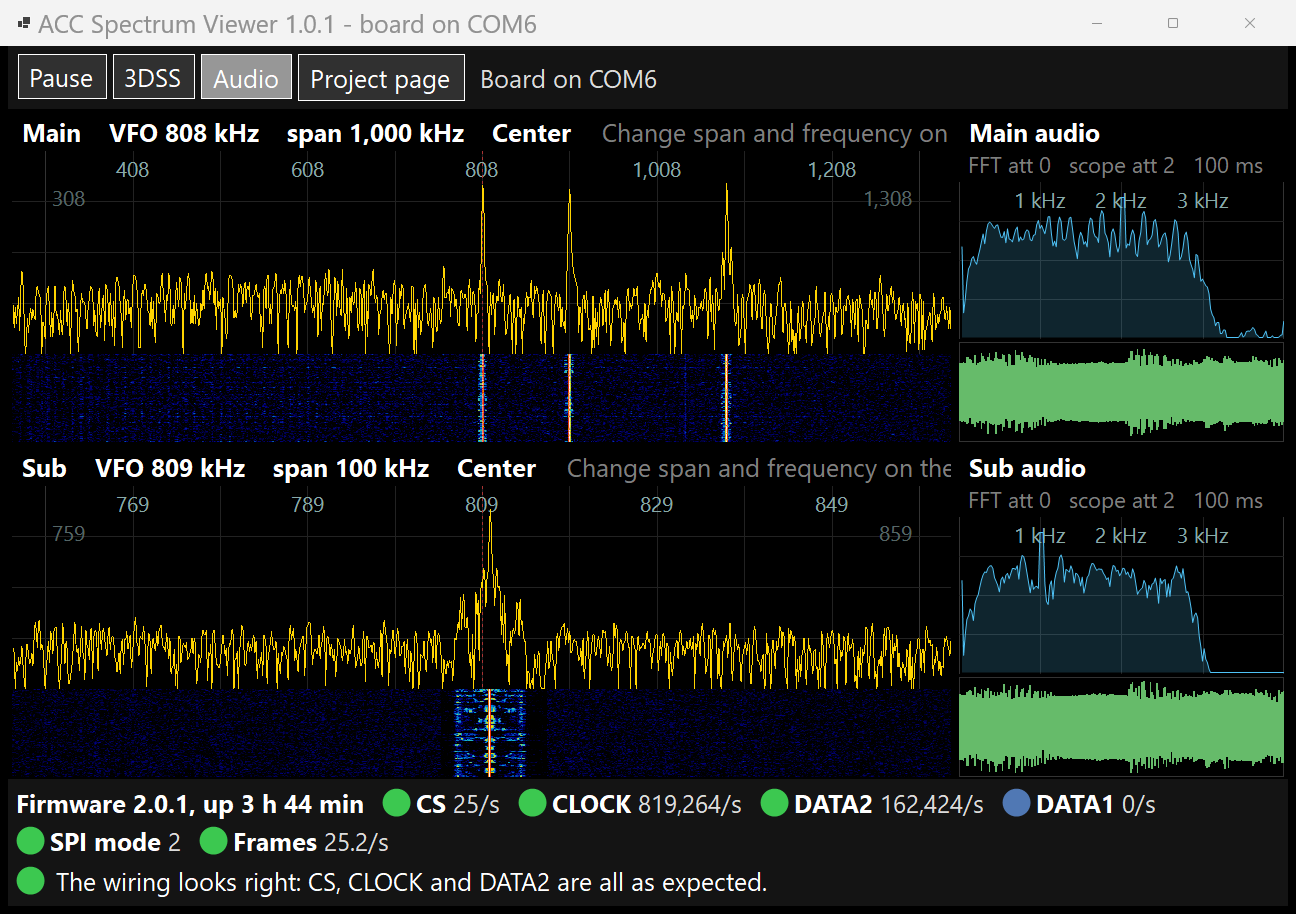
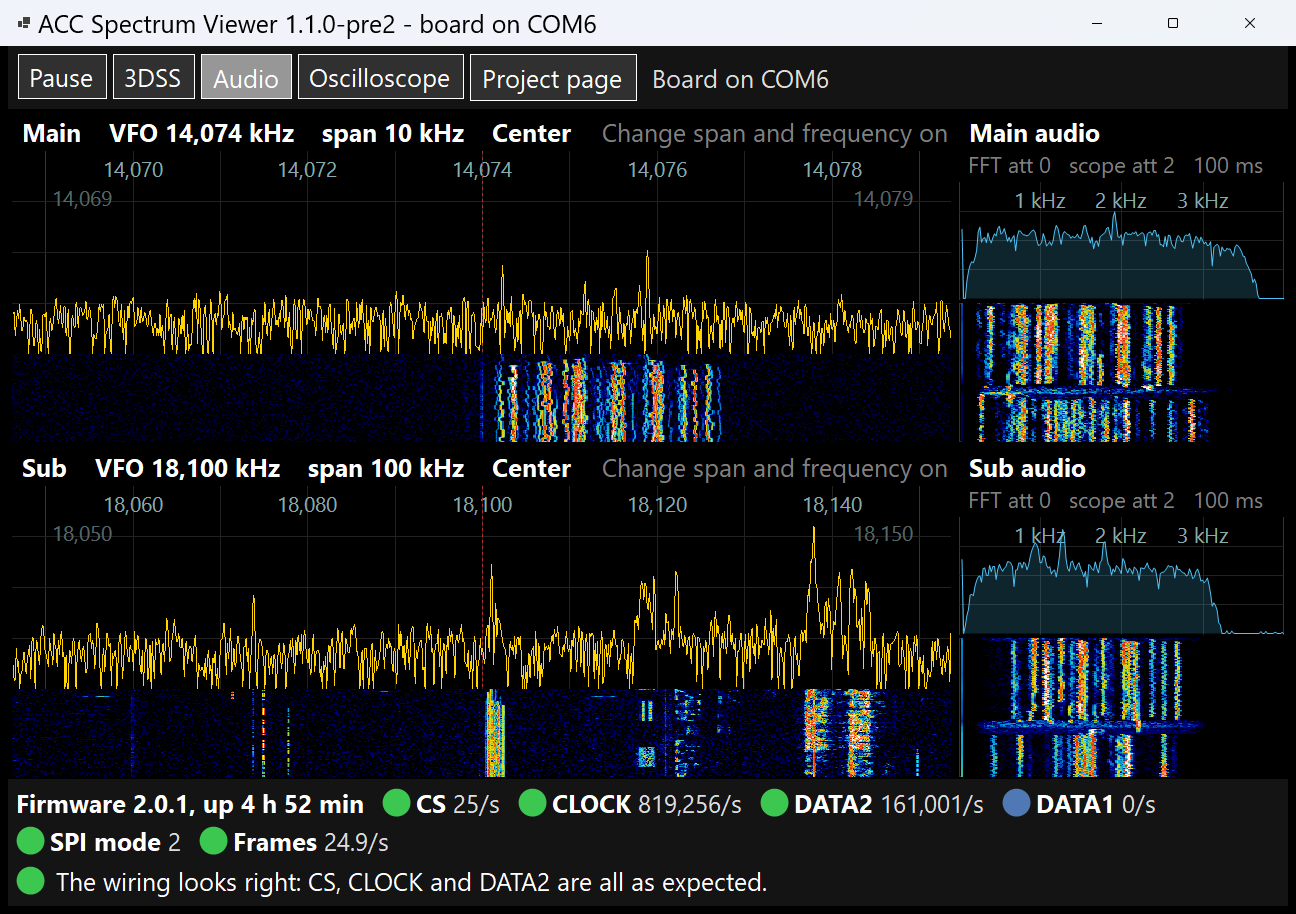
Viewer 1.1.0-pre2: an audio waterfall under each AF-FFT
The oscilloscope's green band says little, so each audio panel now shows a
waterfall made from the AF-FFT under it: 4 frames a row, about 16 seconds
in 100 pixels, so a whole FT8 cycle fits. The colours follow the signals
like the scope's waterfall. The Oscilloscope button (or O) brings the
radio's oscilloscope back in its place.

diff --git a/viewer/src/AccSpectrumViewer/AudioView.cs b/viewer/src/AccSpectrumViewer/AudioView.cs
@@ -3,14 +3,16 @@
 // SPDX-License-Identifier: GPL-3.0-only (see LICENSE in the top folder)
 
 using System.Drawing.Drawing2D;
+using System.Drawing.Imaging;
+using System.Runtime.InteropServices;
 using YaesuAccScope;
 
 namespace AccSpectrumViewer;
 
 /// <summary>
-/// One receiver's audio scope: the AF-FFT from 0 to 4 kHz above the
-/// oscilloscope, as the radio sends them. The radio has one time and
-/// attenuator setting for both receivers; they're set on the radio.
+/// One receiver's audio scope: the AF-FFT from 0 to 4 kHz above an audio
+/// waterfall made from it, or above the radio's oscilloscope. The radio has one
+/// time and attenuator setting for both receivers; they're set on the radio.
 /// </summary>
 internal sealed class AudioView : Control
 {
@@ -23,6 +25,27 @@ internal sealed class AudioView : Control
     /// <summary>How much of each new AF-FFT goes into the trace, to steady it a little.</summary>
     internal const double FftFollow = 0.5;
 
+    /// <summary>The AF-FFT points across the waterfall: all but DC.</summary>
+    internal const int FallPoints = FftPoints - FirstPoint;
+
+    /// <summary>
+    /// Frames averaged into each waterfall row. At 25 frames a second that's
+    /// about 6 rows a second, so 100 pixels of waterfall hold 16 seconds: a
+    /// whole FT8 cycle. Averaging also steadies the noise, so weak tones show.
+    /// </summary>
+    internal const int FramesPerRow = 4;
+
+    /// <summary>How fast the waterfall's colours follow the levels, a share a row: 95% in about 3 seconds.</summary>
+    internal const double FallFollow = 0.15;
+
+    private const int FallRows = 400;
+
+    private readonly int[] _fall = new int[FallPoints * FallRows];
+    private readonly Bitmap _fallBitmap = new(FallPoints, FallRows, PixelFormat.Format32bppRgb);
+    private readonly int[] _rowSum = new int[FallPoints];
+    private int _rowFrames;
+    private bool _fallChanged;
+    private ColourStretch? _stretch;
     private readonly double[] _fft = new double[FftPoints];
     private readonly byte[] _oscMax = new byte[Columns];
     private readonly byte[] _oscMin = new byte[Columns];
@@ -53,11 +76,16 @@ internal sealed class AudioView : Control
     /// <summary>"Main" or "Sub".</summary>
     public string ReceiverName { get; }
 
+    /// <summary>True to draw the radio's oscilloscope under the AF-FFT instead of the audio waterfall.</summary>
+    [System.ComponentModel.DesignerSerializationVisibility(System.ComponentModel.DesignerSerializationVisibility.Hidden)]
+    public bool ShowOscilloscope { get; set; }
+
     /// <summary>Adds a frame's audio scope. Call <see cref="Control.Invalidate()"/> after.</summary>
     public void AddAudio(AudioScope audio)
     {
         var fft = audio.Fft;
         Smooth(_fft, fft, _hasData ? FftFollow : 1.0);
+        AddToRow(fft);
         for (int c = 0; c < Columns; c++)
         {
             _oscMax[c] = audio.OscMax(c);
@@ -71,6 +99,39 @@ internal sealed class AudioView : Control
         _fftAtt = audio.FftAttenuator;
         _hasData = true;
     }
+
+    // Adds a frame's AF-FFT to the waterfall row being built, and when the row
+    // has its frames, colours it and puts it at the top.
+    private void AddToRow(byte[] fft)
+    {
+        for (int i = 0; i < FallPoints; i++) _rowSum[i] += fft[i + FirstPoint];
+        if (++_rowFrames < FramesPerRow) return;
+
+        var row = AverageRow(_rowSum, _rowFrames);
+        Array.Clear(_rowSum);
+        _rowFrames = 0;
+        var target = ColourStretch.From(row);
+        _stretch = _stretch == null ? target : _stretch.Towards(target, FallFollow);
+        Array.Copy(_fall, 0, _fall, FallPoints, FallPoints * (FallRows - 1));
+        var lookup = _stretch.Lookup;
+        for (int i = 0; i < FallPoints; i++) _fall[i] = Palette.Waterfall[lookup[row[i]]];
+        _fallChanged = true;
+    }
+
+    /// <summary>The average of the frames summed into a row, rounded.</summary>
+    internal static byte[] AverageRow(int[] sum, int frames)
+    {
+        var row = new byte[sum.Length];
+        for (int i = 0; i < sum.Length; i++) row[i] = (byte)Math.Clamp((sum[i] + frames / 2) / frames, 0, 255);
+        return row;
+    }
+
+    /// <summary>
+    /// The share of the audio area the AF-FFT takes: more when the oscilloscope
+    /// is under it, less with the waterfall, which needs the height to hold a
+    /// whole FT8 cycle.
+    /// </summary>
+    internal static int FftPercent(bool oscilloscope) => oscilloscope ? 60 : 45;
 
     /// <summary>Moves each smoothed point a share of the way to the new AF-FFT.</summary>
     internal static void Smooth(double[] smoothed, byte[] latest, double follow)
@@ -109,11 +170,40 @@ internal sealed class AudioView : Control
                 new Rectangle(4, 4 + _titleFont.Height, Width - 8, _scaleFont.Height), Color.Gray, flags);
 
         var area = new Rectangle(0, titleHeight, Width, Math.Max(Height - titleHeight, 1));
-        int fftHeight = Math.Max(area.Height * 6 / 10, 30);
+        int fftHeight = Math.Max(area.Height * FftPercent(ShowOscilloscope) / 100, 30);
         var fft = new Rectangle(area.X, area.Y, area.Width, fftHeight);
-        var osc = new Rectangle(area.X, fft.Bottom + 4, area.Width, Math.Max(area.Bottom - fft.Bottom - 4, 1));
+        var below = new Rectangle(area.X, fft.Bottom + 4, area.Width, Math.Max(area.Bottom - fft.Bottom - 4, 1));
         DrawFft(g, fft);
-        DrawOscilloscope(g, osc);
+        if (ShowOscilloscope) DrawOscilloscope(g, below);
+        else DrawWaterfall(g, below);
+    }
+
+    // Newest row at the top, one row of pixels each, so its speed doesn't
+    // change with the window's height. Lined up with the AF-FFT above it.
+    private void DrawWaterfall(Graphics g, Rectangle r)
+    {
+        g.DrawRectangle(_edgePen, r.Left, r.Top, r.Width - 1, r.Height - 1);
+        if (!_hasData) return;
+        if (_fallChanged)
+        {
+            var data = _fallBitmap.LockBits(new Rectangle(0, 0, FallPoints, FallRows), ImageLockMode.WriteOnly, PixelFormat.Format32bppRgb);
+            try
+            {
+                for (int row = 0; row < FallRows; row++)
+                    Marshal.Copy(_fall, row * FallPoints, data.Scan0 + row * data.Stride, FallPoints);
+            }
+            finally
+            {
+                _fallBitmap.UnlockBits(data);
+            }
+            _fallChanged = false;
+        }
+        int rows = Math.Min(FallRows, r.Height);
+        int left = (int)Math.Round(FftX(r, FirstPoint));
+        g.InterpolationMode = InterpolationMode.NearestNeighbor;
+        g.PixelOffsetMode = PixelOffsetMode.Half;
+        g.DrawImage(_fallBitmap, new Rectangle(left, r.Y, r.Right - left, rows), new Rectangle(0, 0, FallPoints, rows), GraphicsUnit.Pixel);
+        g.PixelOffsetMode = PixelOffsetMode.Default;
     }
 
     // x of an AF-FFT point, with 0 Hz at the left edge and 4 kHz at the right.
@@ -182,6 +272,7 @@ internal sealed class AudioView : Control
     {
         if (disposing)
         {
+            _fallBitmap.Dispose();
             _fftPen.Dispose();
             _fftFill.Dispose();
             _oscBrush.Dispose();

diff --git a/viewer/src/AccSpectrumViewer/MainForm.cs b/viewer/src/AccSpectrumViewer/MainForm.cs
@@ -30,6 +30,7 @@ internal sealed class MainForm : Form
     private readonly CheckBox _pause = MakeToggle("&Pause");
     private readonly CheckBox _dss = MakeToggle("&3DSS");
     private readonly CheckBox _audio = MakeToggle("&Audio");
+    private readonly CheckBox _osc = MakeToggle("&Oscilloscope");
     private readonly System.Windows.Forms.Timer _timer = new() { Interval = 40 };
     private readonly Stopwatch _rateClock = Stopwatch.StartNew();
     private readonly ToolTip _tips = new();
@@ -56,15 +57,22 @@ internal sealed class MainForm : Form
         tips.SetToolTip(_dss, "Show the last 40 traces in perspective, like the radio's 3DSS (D)");
         const string followsRadio = "This shows what the radio's own scope is set to. To change the span, Center or Fixed, " +
             "or the frequency, change them on the radio and the viewer follows.";
-        tips.SetToolTip(_audio, "Show each receiver's AF-FFT and oscilloscope beside its scope (A)");
+        tips.SetToolTip(_audio, "Show each receiver's audio scope beside its scope (A)");
+        tips.SetToolTip(_osc, "Under each AF-FFT, show the radio's oscilloscope instead of the audio waterfall (O)");
         tips.SetToolTip(_main, followsRadio);
         tips.SetToolTip(_sub, followsRadio);
-        const string audioOnRadio = "The receiver's AF-FFT (0 to 4 kHz) and oscilloscope, from the ACC socket. " +
+        const string audioOnRadio = "The receiver's AF-FFT (0 to 4 kHz) from the ACC socket, above its waterfall or the radio's oscilloscope. " +
             "The attenuators and the time are one setting for both receivers: change them on the radio.";
         tips.SetToolTip(_mainAudio, audioOnRadio);
         tips.SetToolTip(_subAudio, audioOnRadio);
         _audio.Checked = true;
         _audio.CheckedChanged += (_, _) => ShowAudio(_audio.Checked);
+        _osc.CheckedChanged += (_, _) =>
+        {
+            _mainAudio.ShowOscilloscope = _subAudio.ShowOscilloscope = _osc.Checked;
+            _mainAudio.Invalidate();
+            _subAudio.Invalidate();
+        };
         _dss.CheckedChanged += (_, _) =>
         {
             _main.Show3dss = _sub.Show3dss = _dss.Checked;
@@ -79,7 +87,7 @@ internal sealed class MainForm : Form
             WrapContents = false,
             FlowDirection = FlowDirection.LeftToRight,
         };
-        buttons.Controls.AddRange(new Control[] { _pause, _dss, _audio, project });
+        buttons.Controls.AddRange(new Control[] { _pause, _dss, _audio, _osc, project });
         buttons.Dock = DockStyle.None;
         buttons.Anchor = AnchorStyles.Left;
         var top = new TableLayoutPanel
@@ -136,6 +144,7 @@ internal sealed class MainForm : Form
         _scopes.ColumnStyles[0].Width = show ? 100 - AudioPercent : 100;
         _scopes.ColumnStyles[1].Width = show ? AudioPercent : 0;
         _mainAudio.Visible = _subAudio.Visible = show;
+        _osc.Enabled = show;
         _scopes.ResumeLayout();
     }
 
@@ -168,6 +177,9 @@ internal sealed class MainForm : Form
                 return true;
             case Keys.A:
                 _audio.Checked = !_audio.Checked;
+                return true;
+            case Keys.O:
+                _osc.Checked = !_osc.Checked;
                 return true;
         }
         return base.ProcessCmdKey(ref msg, keyData);

diff --git a/viewer/tests/AccSpectrumViewer.Tests/AudioViewTests.cs b/viewer/tests/AccSpectrumViewer.Tests/AudioViewTests.cs
@@ -68,6 +68,42 @@ public class AudioViewTests
     }
 
     [Fact]
+    public void A_waterfall_row_is_the_average_of_its_frames()
+    {
+        var row = AudioView.AverageRow(new[] { 0, 400, 1020, 6 }, 4);
+
+        Assert.Equal(new byte[] { 0, 100, 255, 2 }, row);
+    }
+
+    [Fact]
+    public void The_waterfall_holds_a_whole_ft8_cycle_in_100_pixels()
+    {
+        // 25 frames a second; an FT8 cycle is 15 seconds.
+        double secondsIn100Rows = 100.0 * AudioView.FramesPerRow / 25;
+
+        Assert.True(secondsIn100Rows >= 15, $"{secondsIn100Rows} s");
+        Assert.Equal(199, AudioView.FallPoints);
+    }
+
+    [Fact]
+    public void The_waterfall_gets_more_height_than_the_oscilloscope()
+    {
+        Assert.True(AudioView.FftPercent(oscilloscope: false) < AudioView.FftPercent(oscilloscope: true));
+    }
+
+    [Fact]
+    public void The_waterfall_is_shown_unless_the_oscilloscope_is_asked_for()
+    {
+        using var form = new MainForm();
+        var views = AllControls(form).OfType<AudioView>().ToArray();
+        var osc = AllControls(form).OfType<CheckBox>().Single(c => c.Text == "&Oscilloscope");
+
+        Assert.All(views, v => Assert.False(v.ShowOscilloscope));
+        osc.Checked = true;
+        Assert.All(views, v => Assert.True(v.ShowOscilloscope));
+    }
+
+    [Fact]
     public void Each_receiver_has_an_audio_view()
     {
         using var form = new MainForm();

diff --git a/viewer/README.md b/viewer/README.md
@@ -32,11 +32,16 @@ everything it knows about the board and the frames comes from there.
     one, so nothing goes off the top, and comes back down slowly.
   - Press **D** or **3DSS** for the last 40 traces in perspective, like the radio's 3DSS.
   - Press **Space** or **Pause** to freeze it.
-- **Shows the audio scopes.** Beside each receiver's scope is its audio scope,
-  the same pictures the radio's AF-FFT and oscilloscope draw: the audio
-  spectrum from 0 to 4 kHz, with a line each kHz, above the waveform. You see
-  the receive filter's shape, and tones and voices inside it. They come from
-  the ACC socket too, before the AF gain, so they don't change with the volume.
+- **Shows the audio scopes.** Beside each receiver's scope is its audio scope:
+  the radio's AF-FFT, the audio spectrum from 0 to 4 kHz with a line each kHz,
+  and under it an audio waterfall made from the AF-FFT. You see the receive
+  filter's shape, and tones and voices inside it. They come from the ACC
+  socket too, before the AF gain, so they don't change with the volume.
+  - The audio waterfall shows about 16 seconds in 100 pixels, so a whole FT8
+    cycle fits: each station is a stripe, and the gaps between cycles are dark
+    lines across it. Its colours look after themselves, like the scope's.
+  - Press **O** or **Oscilloscope** for the radio's oscilloscope (the waveform)
+    in place of the audio waterfall.
   - The FFT attenuator, the oscilloscope attenuator and the time are shown under
     each title. The radio has one setting for both receivers, so change it on
     the radio (the AF-FFT/oscilloscope settings in the scope's MULTI menu, or
@@ -46,7 +51,7 @@ everything it knows about the board and the frames comes from there.
     AF-FFT shows less. SLOW was best for FT8. See section 5 of
     [Getting the best picture](../docs/best-picture.md#5-for-the-audio-scope-turn-the-agc-on-and-open-the-filter).
 
-  ![The viewer with the audio scopes: Main on 808 kHz USB with Radio Scotland's 810 kHz carrier as a 2 kHz tone in a wide filter, and Sub on 809 kHz USB with the carrier as a 1 kHz tone. Each audio panel shows the AF-FFT from 0 to 4 kHz above the oscilloscope.](../docs/images/viewer-audio.png)
+  ![The viewer with the audio scopes: Main on 14,074 kHz and Sub on 18,100 kHz, both FT8 in DATA-U. Each audio panel shows the AF-FFT from 0 to 4 kHz above the audio waterfall, where the FT8 stations are vertical stripes and the gaps between cycles are dark lines across.](../docs/images/viewer-audio.png)
 
 - **Checks the wiring.** The board sends a status line every 5 seconds, with how
   many times a second each input changes. The bar along the bottom compares
